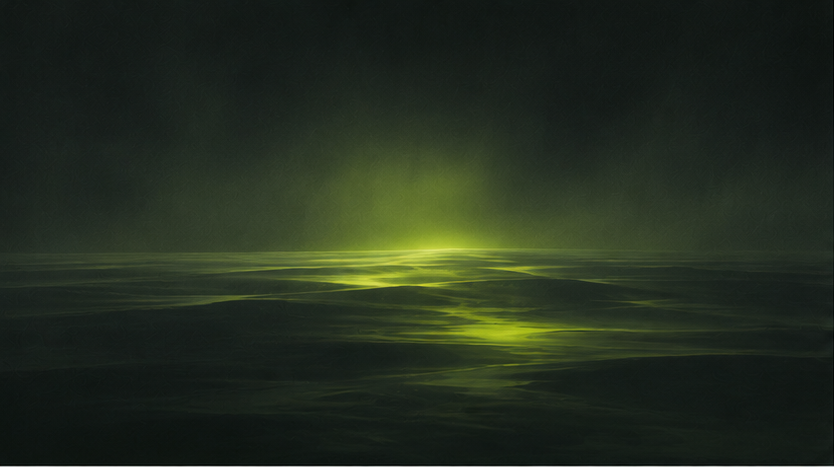
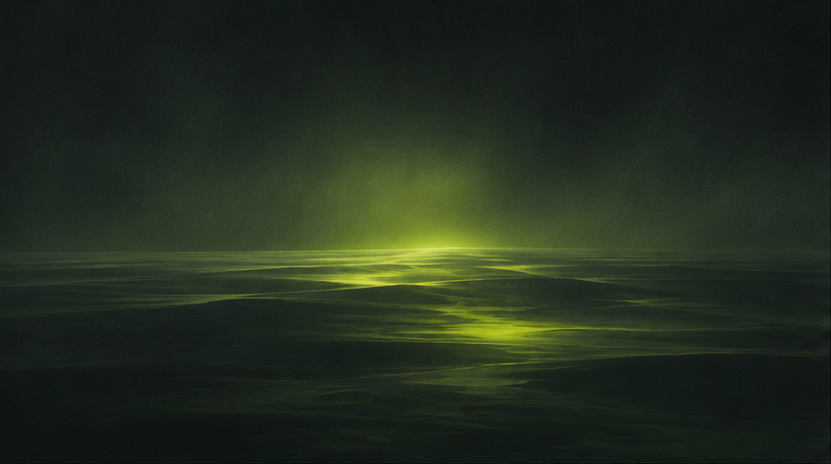
feat(readme): replace header image

diff --git a/README.md b/README.md
@@ -1,3 +1,3 @@
 <div align="center">
-  <img src="./static/profile-readme.jpg" alt="Welcome Banner" />
+  <img src="./static/profile-readme.png" alt="Welcome Banner" />
 </div>
